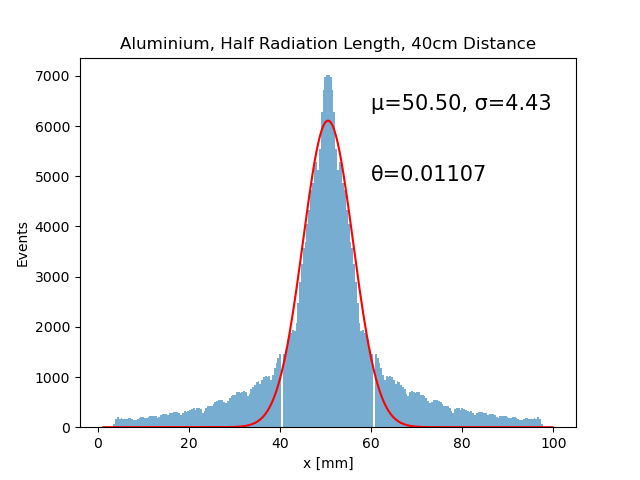
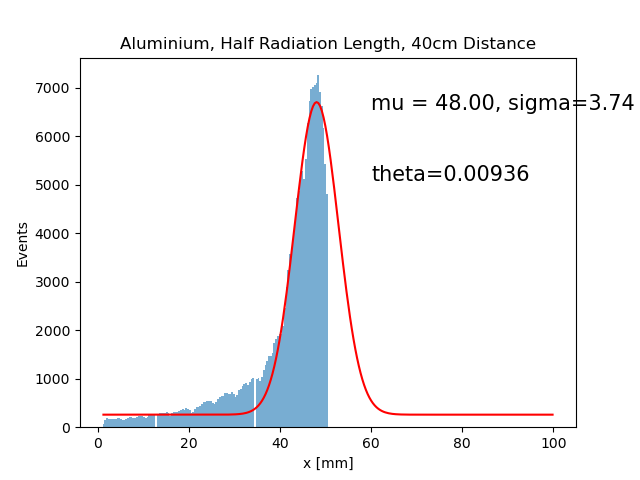
blablabla

diff --git a/src/elsa/dataReader.py b/src/elsa/dataReader.py
@@ -4,6 +4,8 @@ import matplotlib.pyplot as plt
 from collections import Counter
 from scipy.optimize import curve_fit
 
+fixmu = 48
+
 def drawHistograms(file, histogramArray, indexTranslation):
     
     #To later calculate the standard deviation from the difference of the no data run and the other runs.
@@ -14,6 +16,14 @@ def drawHistograms(file, histogramArray, indexTranslation):
         mm_strip = file[i]["raw"]["mm_strip"].array(library="np")
         apv_id = file[i]["raw"]["apv_id"].array(library="np")
         event_id = file[i]["data"]["apv_qmax"].array(library="np")
+        
+        events = file[i]["raw"]["apv_evt"].array(library="np")
+        print(events)
+        print(len(events))
+        #plt.hist(events)
+        #plt.show()
+
+
         mm_strip = np.concatenate(mm_strip)
         apv_id = np.concatenate(apv_id)
         event_id = np.concatenate(event_id)
@@ -22,7 +32,7 @@ def drawHistograms(file, histogramArray, indexTranslation):
 
 
         #filter out unprecise data to eliminate local jitters
-        valid_events = {eid for eid, count in event_counts.items() if count < 700}
+        valid_events = {eid for eid, count in event_counts.items() if count <700}
         mask = np.isin(event_id, list(valid_events))
 
         mm_strip = mm_strip[mask]
@@ -47,13 +57,13 @@ def drawHistograms(file, histogramArray, indexTranslation):
 
 
         #swap out the left and right side to account for weird apv placement
-        x_strip[x_strip >= 126] -= 250
-        x_strip[x_strip >= 1] += 125
-        y_strip[y_strip <=0] += 125
+        x_strip[x_strip >= 128] -= 256
+        x_strip[x_strip >= 1] += 127
+        y_strip[y_strip <=0] += 127
 
-        y_strip[y_strip >= 126] -= 250
-        y_strip[y_strip >= 1] += 125
-        y_strip[y_strip<=0] += 125 
+        y_strip[y_strip >= 128] -= 256
+        y_strip[y_strip >= 1] += 128
+        y_strip[y_strip<=0] += 128
 
         if i == 0 and False:
             plt.hist(y_strip, bins=250, range=(1,250))
@@ -63,8 +73,8 @@ def drawHistograms(file, histogramArray, indexTranslation):
             plt.show()
         
         #convert the bin count into mm
-        y_strip = y_strip / 2.5  +1
-        x_strip = x_strip / 2.5 +1
+        y_strip = y_strip / 2.54
+        x_strip = x_strip / 2.54
         
         #if i == 0:
         #    twodHist(x_strip, y_strip)
@@ -72,39 +82,68 @@ def drawHistograms(file, histogramArray, indexTranslation):
         #these are now arrays that list the individual counts, such that the size of this array is the amount of data collected.
         #I will transform this into two arrays, both 250 long (the amount of buckets)
         #such that one records the size of the bucket, and the other the bucket number.
-        ycounts, yedges = np.histogram(y_strip, bins=250, range=(1,100))
+        ycounts, yedges = np.histogram(y_strip, bins=256, range=(1,100))
         ycenters = 0.5 * (yedges[:-1] + yedges[1:])
         
         #mirroring the Array so that the data becomes easier to analyze and the sensitivity difference between apvs is ignored.
         yMirrorcounts = mirrorArrayLeft(ycounts)
-
+        for k in range(round(len(yMirrorcounts)/2), len(yMirrorcounts)):
+            yMirrorcounts[k]=0
+        #yMirrorcounts = ycounts
+        #yMirrorcounts = mirrorArrayRight(ycounts)
 
         #Now start a gauss fit by doing an initial guess
         #[amplitude, mean, stddev]
-        p0 = [np.max(yMirrorcounts), ycenters[np.argmax(yMirrorcounts)], 10, 500]
+        #p0 = [np.max(yMirrorcounts), ycenters[np.argmax(yMirrorcounts)], 10]
+        p0 = [np.max(yMirrorcounts), 10]
+
         
         #fit with scipy
-        popt, pcov = curve_fit(gauss, ycenters, yMirrorcounts, p0=p0)
-        
-        if i == 0:
-            standardDevNoData = popt[2] #Saves noData standard deviation
+        if False: 
+            popt, pcov = curve_fit(gaussMu, ycenters, yMirrorcounts, p0=p0)
+            perr = np.sqrt(np.diag(pcov))
+            print(perr)
+        else: 
+            fitMask = (ycenters >= 40) & (ycenters <= 47)
+            fitx = ycenters[fitMask]
+            fity = ycounts[fitMask]
             
+            popt, pcov = curve_fit(gaussMu, fitx, fity, p0=p0)
+            perr = np.sqrt(np.diag(pcov))
+            print(perr)
+
+            
+        if False:
+            if i == 0:
+                standardDevNoData = popt[2] #Saves noData standard deviation
+        else:
+            if i == 0:
+                standardDevNoData = popt[1]
+
 
         plt.bar(ycenters, yMirrorcounts, width=yedges[1] - yedges[0], alpha=0.6, label="Data")
-        plt.plot(ycenters, gauss(ycenters, *popt), color='red', label="Gaussian Fit")
+        plt.plot(ycenters, gaussMu(ycenters, *popt), color='red', label="Gaussian Fit")
         
         plt.xlabel("x [mm]")
         plt.ylabel("Events")
-
-
-        if i == 0:
-            plt.text(60,np.max(yMirrorcounts) - np.max(yMirrorcounts)/10, f"μ={popt[1]:.2f}, σ={popt[2]:.2f}", fontsize=15)
-            plt.text(60,np.max(yMirrorcounts) - 3*np.max(yMirrorcounts)/10, "θ=" + str(np.round(np.arctan(popt[2]/400), 5)), fontsize=15)
-        else:
-            popt[2] = np.sqrt( popt[2]**2 - standardDevNoData**2 )
-            plt.text(60,np.max(yMirrorcounts) - np.max(yMirrorcounts)/10, f"μ={popt[1]:.2f}, σ={popt[2]:.2f}", fontsize=15)
-            plt.text(60, np.max(yMirrorcounts) - 3*np.max(yMirrorcounts)/10, "θ=" + str(np.round(np.arctan(popt[2]/400), 5)), fontsize=15)
         
+        if False:
+            if i == 0:
+                plt.text(60,np.max(yMirrorcounts) - np.max(yMirrorcounts)/10, f"μ={popt[1]:.2f}, σ={popt[2]:.2f}", fontsize=15)
+                plt.text(60,np.max(yMirrorcounts) - 3*np.max(yMirrorcounts)/10, "θ=" + str(np.round(np.arctan(popt[2]/400), 5)), fontsize=15)
+            else:
+                popt[2] = np.sqrt( popt[2]**2 - standardDevNoData**2 )
+                plt.text(60,np.max(yMirrorcounts) - np.max(yMirrorcounts)/10, f"μ={popt[1]:.2f}, σ={popt[2]:.2f}", fontsize=15)
+                plt.text(60, np.max(yMirrorcounts) - 3*np.max(yMirrorcounts)/10, "θ=" + str(np.round(np.arctan(popt[2]/400), 5)), fontsize=15)
+        else:
+            if i == 0:
+                plt.text(60, np.max(yMirrorcounts) - np.max(yMirrorcounts)/10, f"mu ={fixmu:.2f}, sigma= {popt[1]:.2f}", fontsize=15)
+                plt.text(60, np.max(yMirrorcounts) -3*np.max(yMirrorcounts)/10, "theta=" + str(np.round(np.arctan(popt[1]/400), 5)), fontsize=15)
+            else:
+                popt[1] = np.sqrt( popt[1]**2 - standardDevNoData**2 )
+                plt.text(60, np.max(yMirrorcounts) - np.max(yMirrorcounts)/10, f"mu = {fixmu:.2f}, sigma={popt[1]:.2f}", fontsize=15)
+                plt.text(60, np.max(yMirrorcounts) -3*np.max(yMirrorcounts)/10, "theta=" + str(np.round(np.arctan(popt[1]/400), 5)), fontsize=15)
+
 
         plt.title(indexTranslation[i])
         plt.savefig("finished_plots/" + indexTranslation[i] + ".png")
@@ -153,8 +192,36 @@ def mirrorArrayLeft(Array):
     half = len(Array) // 2
     return np.concatenate([Array[:half], Array[half-1::-1]])
 
-def gauss(x, A, mu, sigma, b):
+def mirrorArrayRight(Array):
+    half = len(Array) // 2
+    return np.concatenate( [Array[-1:half-1:-1], Array[half:]] )
+
+def gauss(x, A, mu, sigma):
     return A * np.exp(-(x - mu)**2 / (2 * sigma**2))
+
+def gaussMu(x,A,sigma,b):
+    return A * np.exp(-(x - fixmu)**2 / (2*sigma**2))
+
+def fit():
+    yA = [0.00904, 0.1419, 0.02185, 0.02594]
+    xA = [0.0034, 0.00497, 0.00744, 0.00857]
+
+    yC = [0.00866, 0.001322, 0.02223, 0.02371]
+    xC = [0.0031, 0.0047, 0.0069, 0.0085]
+    
+    p0 = [3,0]
+
+    popt, pcov = curve_fit(linear, xA, yA, p0 = p0)
+    
+    plt.plot(xA,linear(xA, *popt))
+    plt.title(popt[0] + "+" + popt[1])
+    plt.show()
+
+
+
+def linear(x, m, b):
+    return m*x, b
+
 
 
 noMaterialIndex = 0
@@ -173,8 +240,12 @@ indexTranslation = [
     "Copper, Two Radiation Lengths, 40cm Distance",
     "Copper, Three Radiation Lengths, 40cm Distance"
         ]
-files = openfile()
+#files = openfile()
 
 #Use this array to show which histograms you want to analyze and plot
 histogramArray = [0,1,2,3,4,5,6,7,8]
-drawHistograms(files, histogramArray, indexTranslation)
+#drawHistograms(files, histogramArray, indexTranslation)
+fit()
+
+
+
